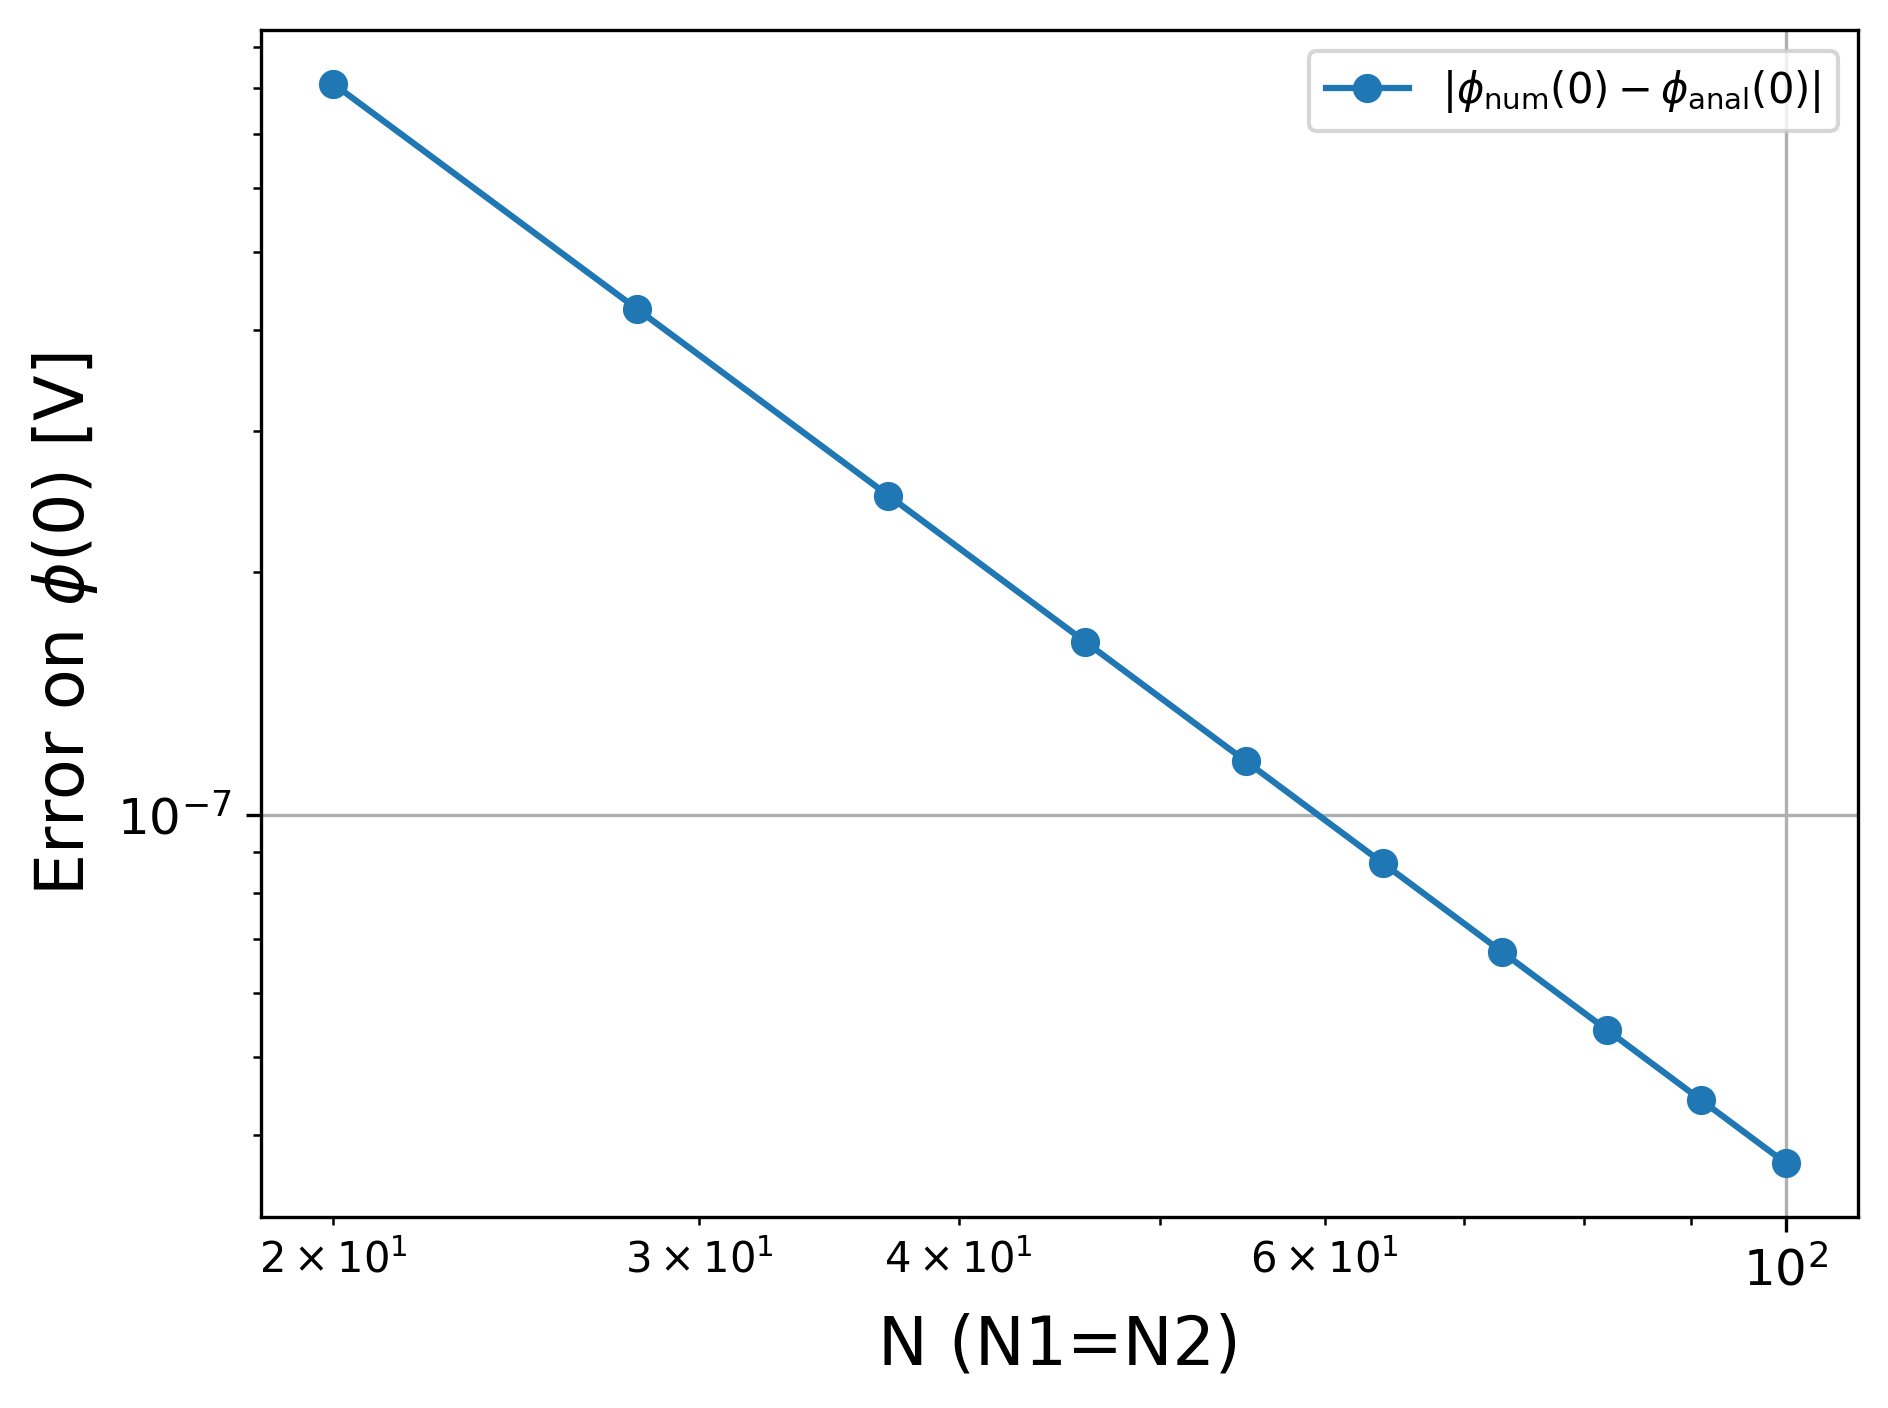
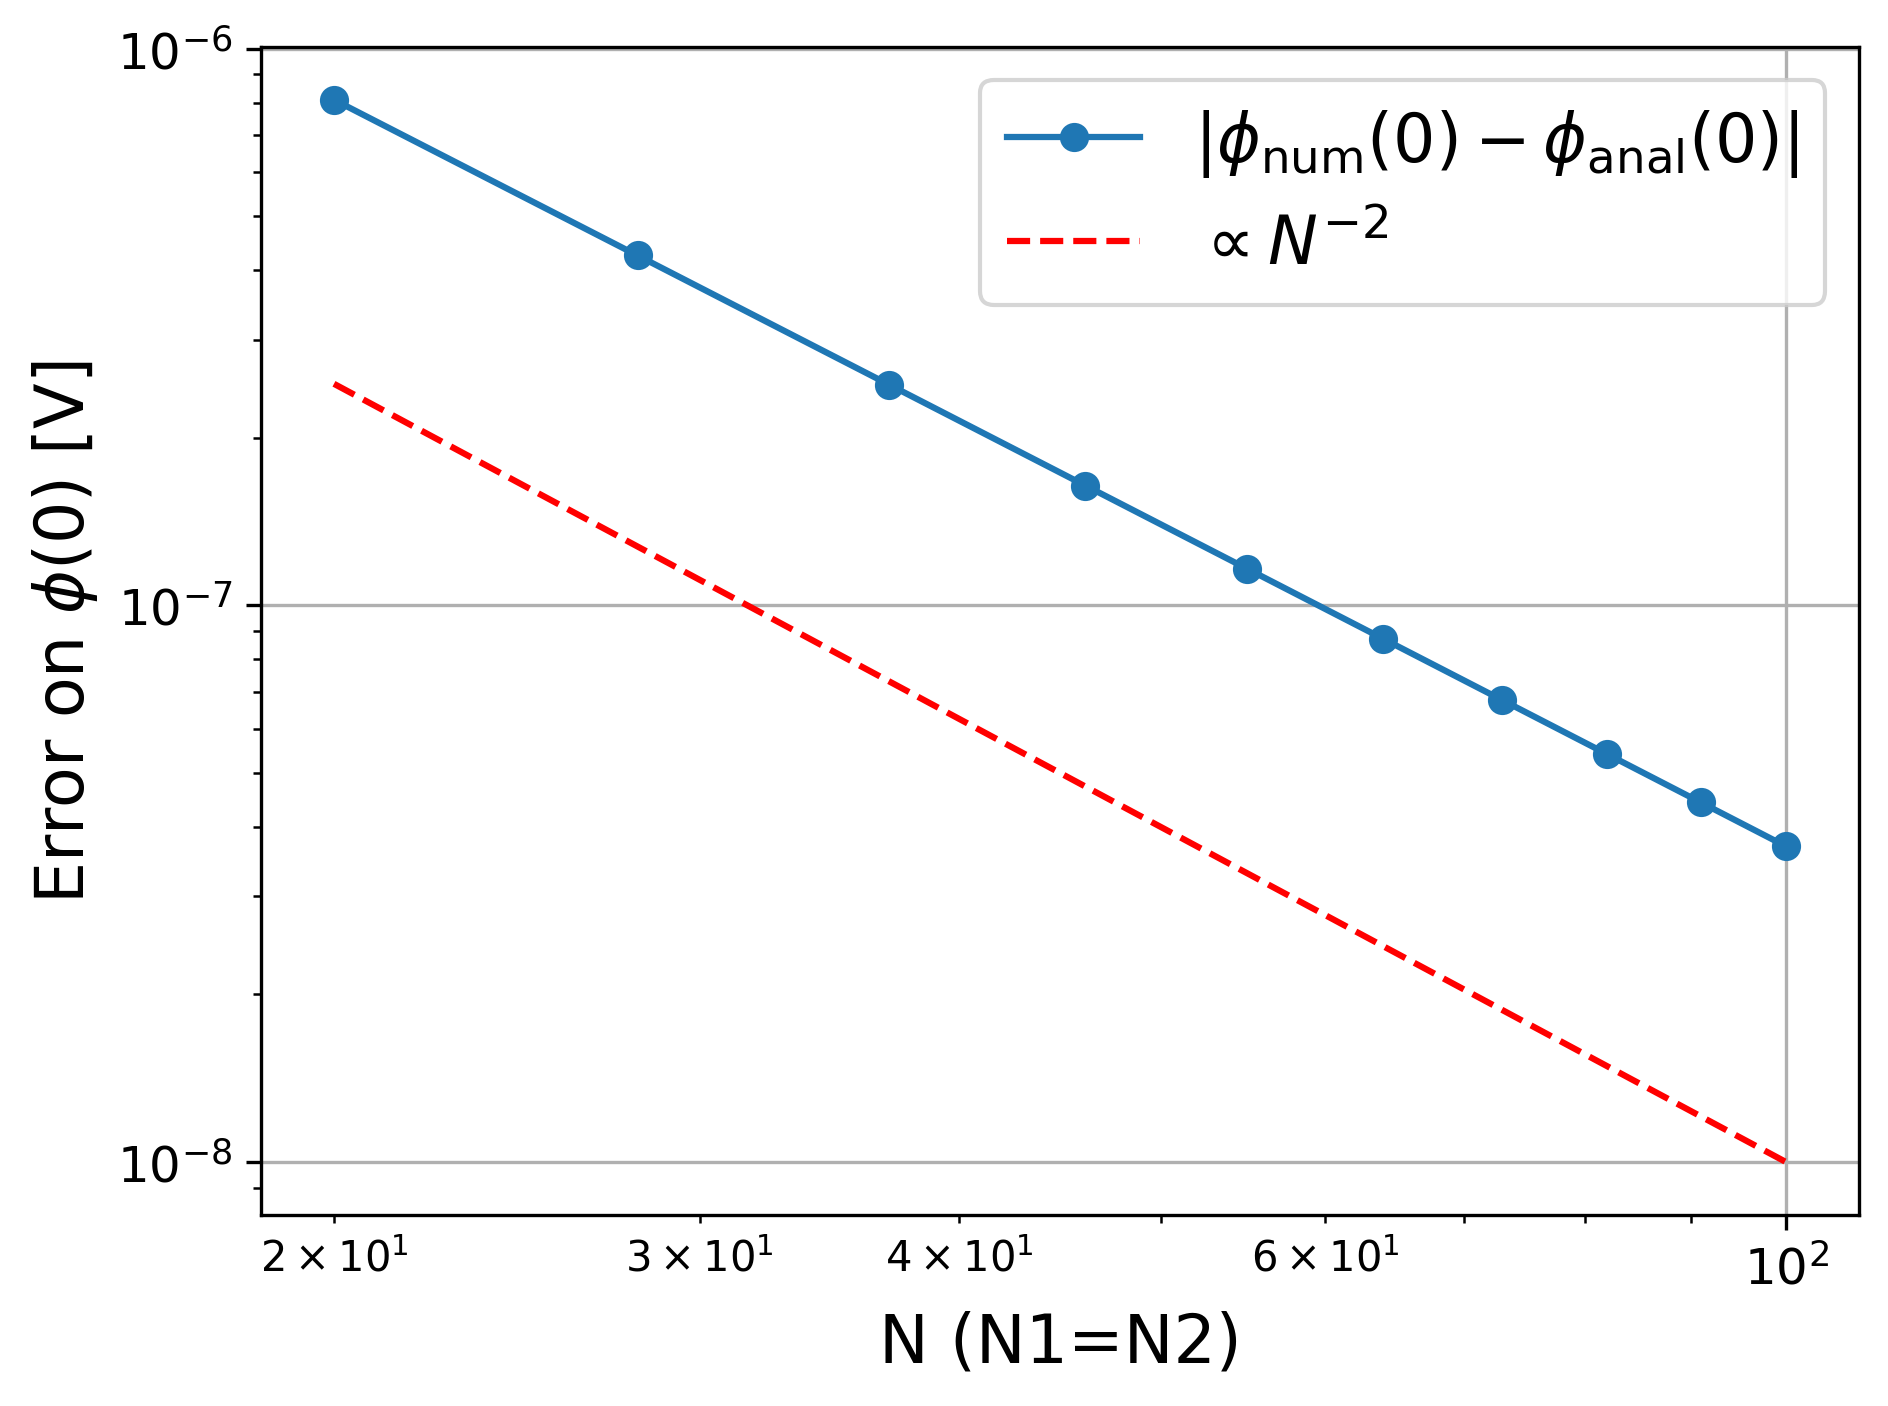
debut question c

diff --git a/questionc.py b/questionc.py
@@ -1,0 +1,119 @@
+import numpy as np
+import matplotlib.pyplot as plt
+from matplotlib.patches import Circle
+from matplotlib.lines import Line2D
+import os
+import functions as fct
+
+executable = './Exe2'  # Remove .exe for Mac
+repertoire = r"/Users/lilimouelle/Desktop/PHYSNUM/Exo4PhysNUL"  # Modify for correct directory
+output_template = "output.out"
+os.chdir(repertoire)
+
+input_filename = "configc.in"
+
+params = fct.read_in_file(input_filename)
+R, r1, epsilon_a, epsilon_b, uniform_rho_case, VR, rho0, N1, N2, epsilon_0 = fct.get_params(params)
+
+phi_file, E_file, D_file, _= fct.run_simulation(executable, input_filename, output_template)
+r, phi, r_E, E, r_D, D = fct.read_output_files(phi_file, E_file, D_file)
+
+
+def compute_div_D(r_D, D):
+    #r * D
+    rD = r_D * D
+
+    # Derivative of rD with respect to r
+    drD = (rD[2:] - rD[:-2]) / (r_D[2:] - r_D[:-2]) 
+
+    # Middles of the middles
+    r_midmid = 0.5 * (r_D[2:] + r_D[:-2])  # taille N-2
+
+    #div(D) = (d/dr)(rD) / r
+    div_D = drD / r_midmid
+
+    return r_midmid, div_D
+
+def rho_lib_function(r_vals, rho0, r1):
+    return np.where(r_vals < r1, rho0 * np.sin(np.pi * r_vals / r1)*epsilon_0, 0)
+
+r_midmid, div_D = compute_div_D(r_D, D)
+rho_lib = rho_lib_function(r_midmid, rho0, r1)
+
+
+plt.figure()
+plt.plot(r_midmid, div_D, marker='o', label=fr"$\nabla \cdot \vec{{D}}$ (N1={N1}, N2={N2})", color='blue')
+plt.xlabel(r'r [m]',fontsize=16)
+plt.ylabel(r'$\nabla \cdot \vec{D}$ [C$ \cdot $m$^{-3}$]',fontsize=16)
+plt.xticks(fontsize=12)  
+plt.yticks(fontsize=12)
+plt.grid(True)
+plt.legend(fontsize=16)
+plt.tight_layout()
+fct.save_figure("div_D.png")
+plt.show()
+
+plt.figure()
+plt.plot(r_midmid, rho_lib, marker='o', label=r"$\rho_{lib}(r)$", color='blue')
+plt.xlabel(r'r [m]',fontsize=16)
+plt.ylabel(r'$\rho_{lib}$ [C$ \cdot $m$^{-3}$]',fontsize=16)
+plt.xticks(fontsize=12)  
+plt.yticks(fontsize=12)
+plt.grid(True)
+plt.legend(fontsize=16)
+plt.tight_layout()
+fct.save_figure("rho_lib.png")
+plt.show()
+
+#Comparaison
+plt.figure()
+plt.plot(r_midmid, div_D, marker='o', label=fr"$\nabla \cdot \vec{{D}}$ (N1={N1}, N2={N2})", color='blue')
+plt.plot(r_midmid, rho_lib, '--', label=r"$\rho_{lib}(r)$", color='red')
+plt.xlabel(r'r [m]',fontsize=16)
+plt.ylabel(r'Comparaison of the RHS to the LHS [C$ \cdot $m$^{-3}$]',fontsize=14)
+plt.xticks(fontsize=12)  
+plt.yticks(fontsize=12)
+plt.grid(True)
+plt.legend(fontsize=16)
+plt.tight_layout()
+fct.save_figure("comparaison_divD_rho.png")
+plt.show()
+
+#Difference 
+errors = []
+for i in range(len(r_midmid)):
+    errors.append(abs(div_D[i] - rho_lib[i]))
+
+plt.figure()
+plt.plot(r_midmid, errors, marker='o', label=fr"$\left| \nabla \cdot \vec{{D}} - \rho_{{lib}} \right|$ (N1={N1}, N2={N2})", color='blue')
+plt.xlabel(r'r [m]',fontsize=16)
+plt.ylabel(r'$\left| \nabla \cdot \vec{{D}} - \rho_{{lib}} \right|$ [C$ \cdot $m$^{-3}$]',fontsize=14)
+plt.xticks(fontsize=12)  
+plt.yticks(fontsize=12)
+plt.grid(True)
+plt.legend(fontsize=14)
+plt.tight_layout()
+fct.save_figure("erreur_divD_rho.png")
+plt.show()
+
+
+
+
+
+
+
+
+
+
+
+#Charges
+
+#Total free charge
+L = 1.0
+h = r_D[1:] - r_D[:-1]
+Q_lib = np.sum(rho_lib * r_D * h) * 2 * np.pi * L
+print(f"Q_lib (charge libre totale) = {Q_lib:.4e} C")
+
+#Total charge 
+Q_tot = D[-1] * 2 * np.pi * R * L
+print(f"Q_tot (charge totale) = {Q_tot:.4e} C")

diff --git a/questiona.py b/questiona.py
@@ -26,7 +26,7 @@ plt.ylabel(r'$\phi$ [V]',fontsize=16)
 plt.xticks(fontsize=12)  
 plt.yticks(fontsize=12)
 plt.grid(True)
-plt.legend()
+plt.legend(fontsize=16)
 plt.tight_layout()
 fct.save_figure("phi_vs_r.png")
 plt.show()
@@ -43,7 +43,7 @@ plt.ylabel(r"$\phi(r)$ [V]",fontsize=16)
 plt.xticks(fontsize=12)  
 plt.yticks(fontsize=12)
 plt.grid(True)
-plt.legend()
+plt.legend(fontsize=16)
 plt.tight_layout()
 fct.save_figure("phi_analytique.png")
 plt.show()
@@ -57,7 +57,7 @@ plt.ylabel(r"$\phi(r)$ [V]",fontsize=16)
 plt.xticks(fontsize=12)  
 plt.yticks(fontsize=12)
 plt.grid(True)
-plt.legend()
+plt.legend(fontsize=16)
 plt.tight_layout()
 fct.save_figure("phi_comparaison.png")
 plt.show()
@@ -85,19 +85,24 @@ plt.ylabel(r"Error on $\phi(0)$ [V]", fontsize=16)
 plt.xticks(fontsize=12)
 plt.yticks(fontsize=12)
 plt.grid(True)
-plt.legend()
+plt.legend(fontsize=16)
 plt.tight_layout()
 fct.save_figure("convergence_phi0_dt.png")
 plt.show()
 
+#ref = errors[0] * (N_values[0] / N_values)**2
+N_ref = np.array(N_values)
+ref = 1e-4 * (1/N_ref**2)
 plt.figure()
 plt.loglog(N_values, errors, 'o-', label=r"$|\phi_\mathrm{num}(0) - \phi_\mathrm{anal}(0)|$")
+plt.loglog(N_ref, ref, 'r--', label=r"$\propto N^{-2}$")
 plt.xlabel(r"N (N1=N2)", fontsize=16)
 plt.ylabel(r"Error on $\phi(0)$ [V]", fontsize=16)
 plt.xticks(fontsize=12)
 plt.yticks(fontsize=12)
 plt.grid(True)
-plt.legend()
+#plt.grid(True, which="both", ls="--", linewidth=0.5)
+plt.legend(fontsize=16)
 plt.tight_layout()
 fct.save_figure("convergence_phi0_N.png")
 plt.show()
